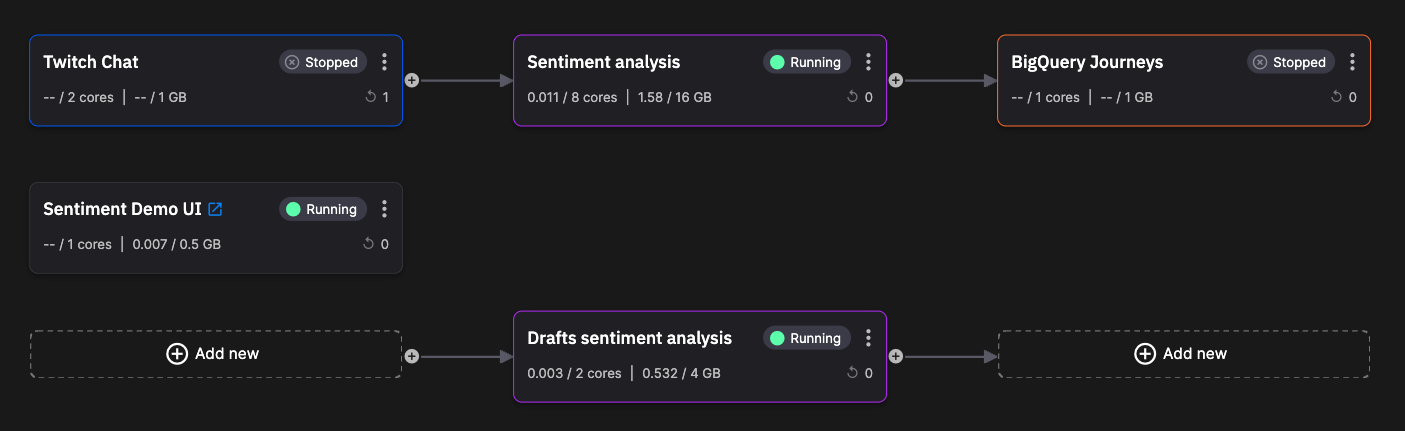
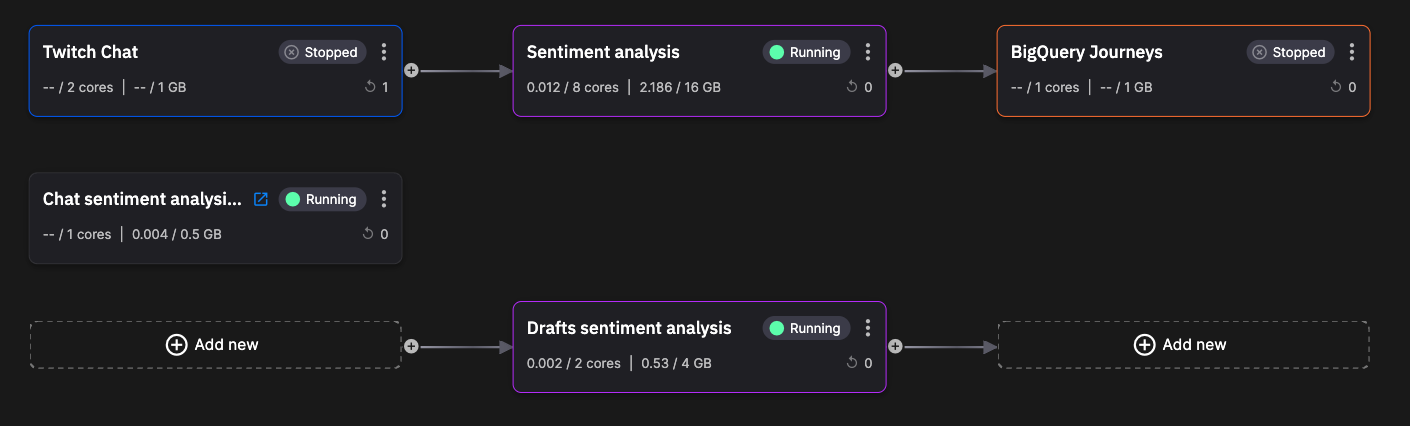
[update] - chat ui screenshots due to rename

diff --git a/docs/platform/tutorials/sentiment-analysis/try-the-ui.md b/docs/platform/tutorials/sentiment-analysis/try-the-ui.md
@@ -10,7 +10,7 @@ Now try out the UI you just deployed. To do this:
 
 1. In the pipeline view find the UI service tile, as shown in the following screenshot:
 
-	![Deployed UI tile](./images/ui-tile.png){width=200px}
+	![Deployed UI tile](./images/web-ui-pipeline-segment.png){width=200px}
 
 2. In the service tile, click the external link icon to launch the UI in a new tab:
 
